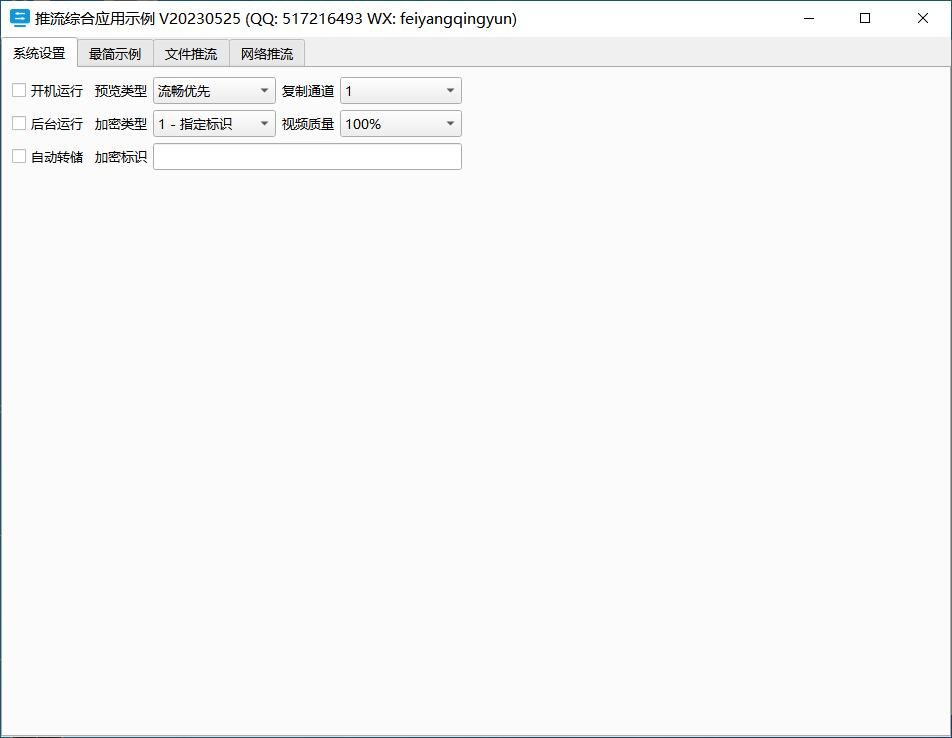
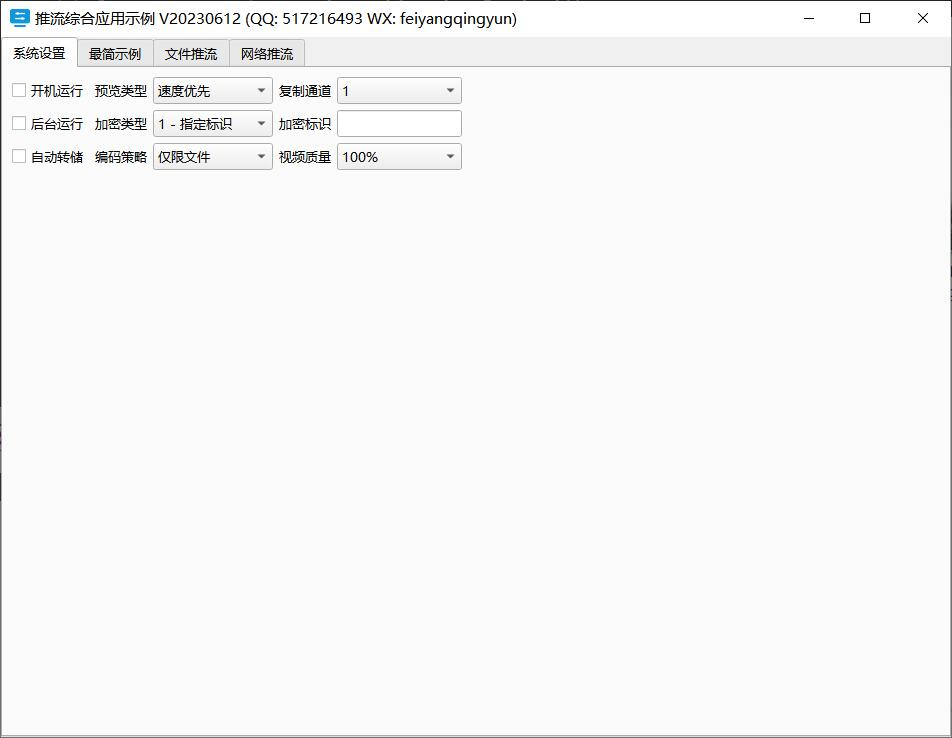
更新内容

diff --git a/README.md b/README.md
@@ -849,7 +849,10 @@
 15. 每个推流都可以手动指定唯一标识符（方便拉流/用户无需记忆复杂的地址），没有指定则按照策略随机生成hash值。
 16. 自动生成测试网页直接打开播放，可以看到实时效果，自动按照数量对应宫格显示。
 17. 推流过程中可以在表格中切换对应推流项，实时预览正在推流的视频，并可以切换视频文件的播放进度。
-18. 支持Qt4/Qt5/Qt6任意版本，支持任意系统（windows/linux/macos/android/嵌入式linux等）。
+18. 音视频同步推流，符合264/265/aac格式的自动原数据推流，不符合的自动转码再推流（会占用一定CPU）。
+19. 转码策略支持三种，自动处理（符合要求的原数据/不符合的转码），仅限文件（文件类型的转码视频），所有转码。
+20. 表格中实时显示每一路推流的分辨率和转码状态，黑色表示没有数据，绿色表示原数据推流，红色表示转码后的数据推流。
+21. 支持Qt4/Qt5/Qt6任意版本，支持任意系统（windows/linux/macos/android/嵌入式linux等）。
 
 ### 20.3 效果图
 ![](snap_video_push/video_push_file.jpg)
